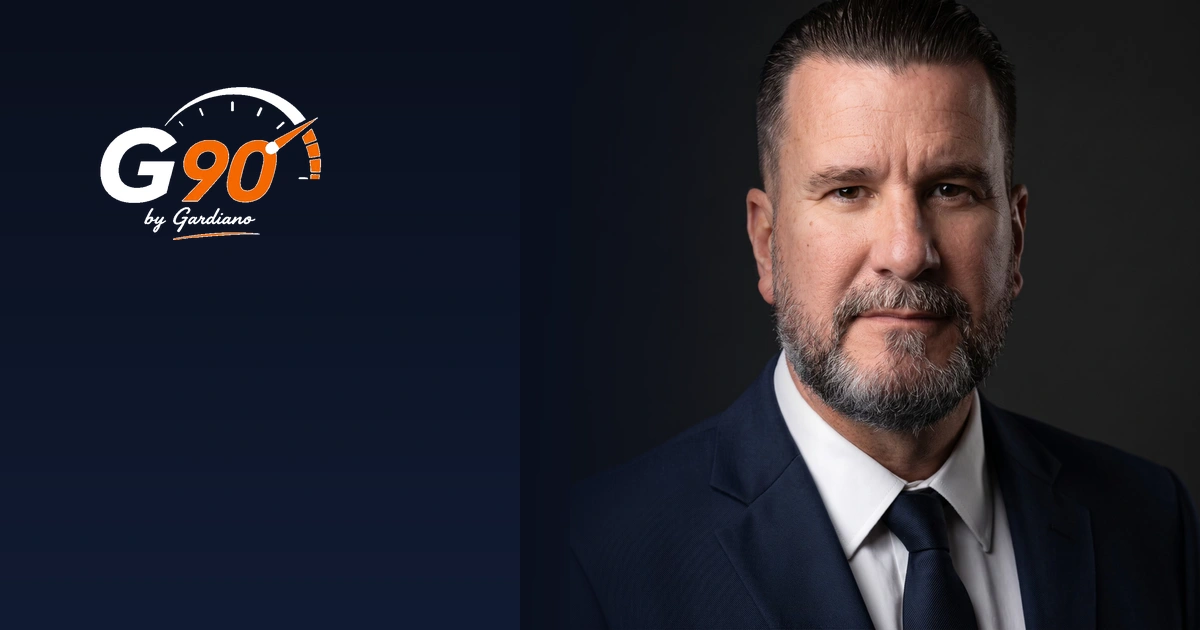
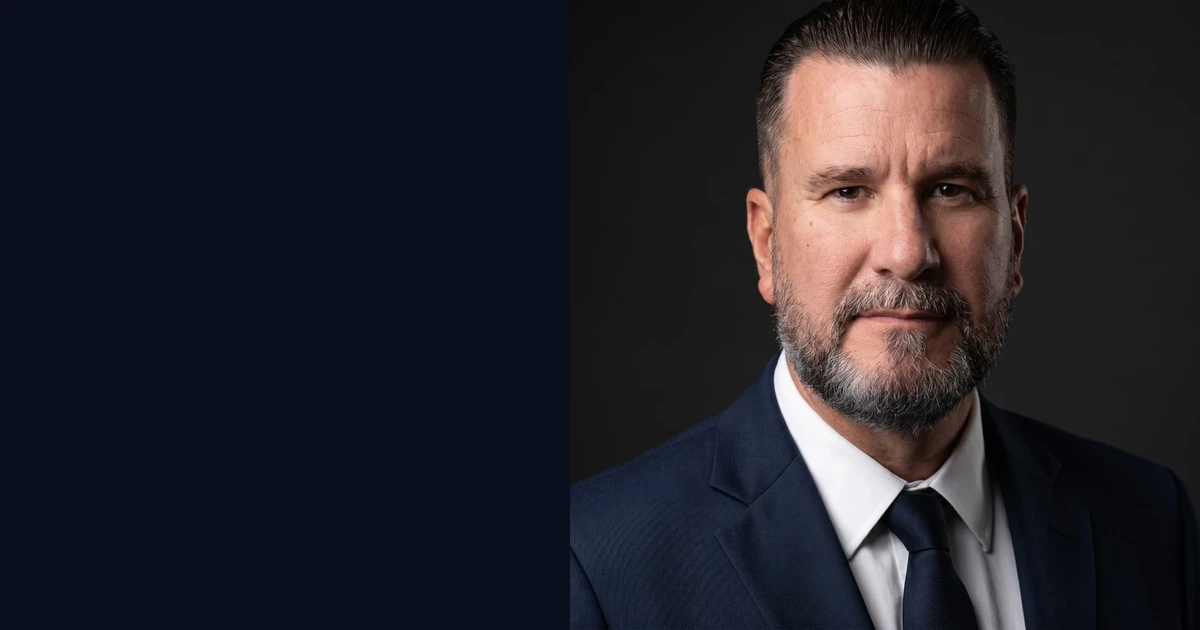
fix(social): set og:image to Rogério photo (rogerio-01.jpg) for optimal WhatsApp link sharing preview

diff --git a/index.html b/index.html
@@ -23,12 +23,12 @@
   <meta property="og:url" content="https://metodog90.com.br/">
   <meta property="og:title" content="Método G90 | Raio-X 360º de Gestão Empresarial">
   <meta property="og:description" content="Transforme faturamento em lucro e previsibilidade com o Método G90 por Rogério Gardiano. Solicite seu Raio-X 360º.">
-  <meta property="og:image" content="https://metodog90.com.br/img/og-preview.webp">
-  <meta property="og:image:secure_url" content="https://metodog90.com.br/img/og-preview.webp">
-  <meta property="og:image:type" content="image/webp">
-  <meta property="og:image:width" content="1200">
-  <meta property="og:image:height" content="630">
-  <meta property="og:image:alt" content="Método G90 — Rogério Gardiano">
+  <meta property="og:image" content="https://metodog90.com.br/img/rogerio-01.jpg">
+  <meta property="og:image:secure_url" content="https://metodog90.com.br/img/rogerio-01.jpg">
+  <meta property="og:image:type" content="image/jpeg">
+  <meta property="og:image:width" content="800">
+  <meta property="og:image:height" content="800">
+  <meta property="og:image:alt" content="Rogério Gardiano — Criador do Método G90">
   <meta property="og:locale" content="pt_BR">
   <meta property="og:site_name" content="Método G90">
 
@@ -37,7 +37,7 @@
   <meta name="twitter:url" content="https://metodog90.com.br/">
   <meta name="twitter:title" content="Método G90 | Raio-X 360º de Gestão Empresarial">
   <meta name="twitter:description" content="Transforme faturamento em lucro e previsibilidade com o Método G90 por Rogério Gardiano.">
-  <meta name="twitter:image" content="https://metodog90.com.br/img/og-preview.webp">
+  <meta name="twitter:image" content="https://metodog90.com.br/img/rogerio-01.jpg">
 
   <!-- Google Fonts (Plus Jakarta Sans) -->
   <link rel="preconnect" href="https://fonts.googleapis.com">
